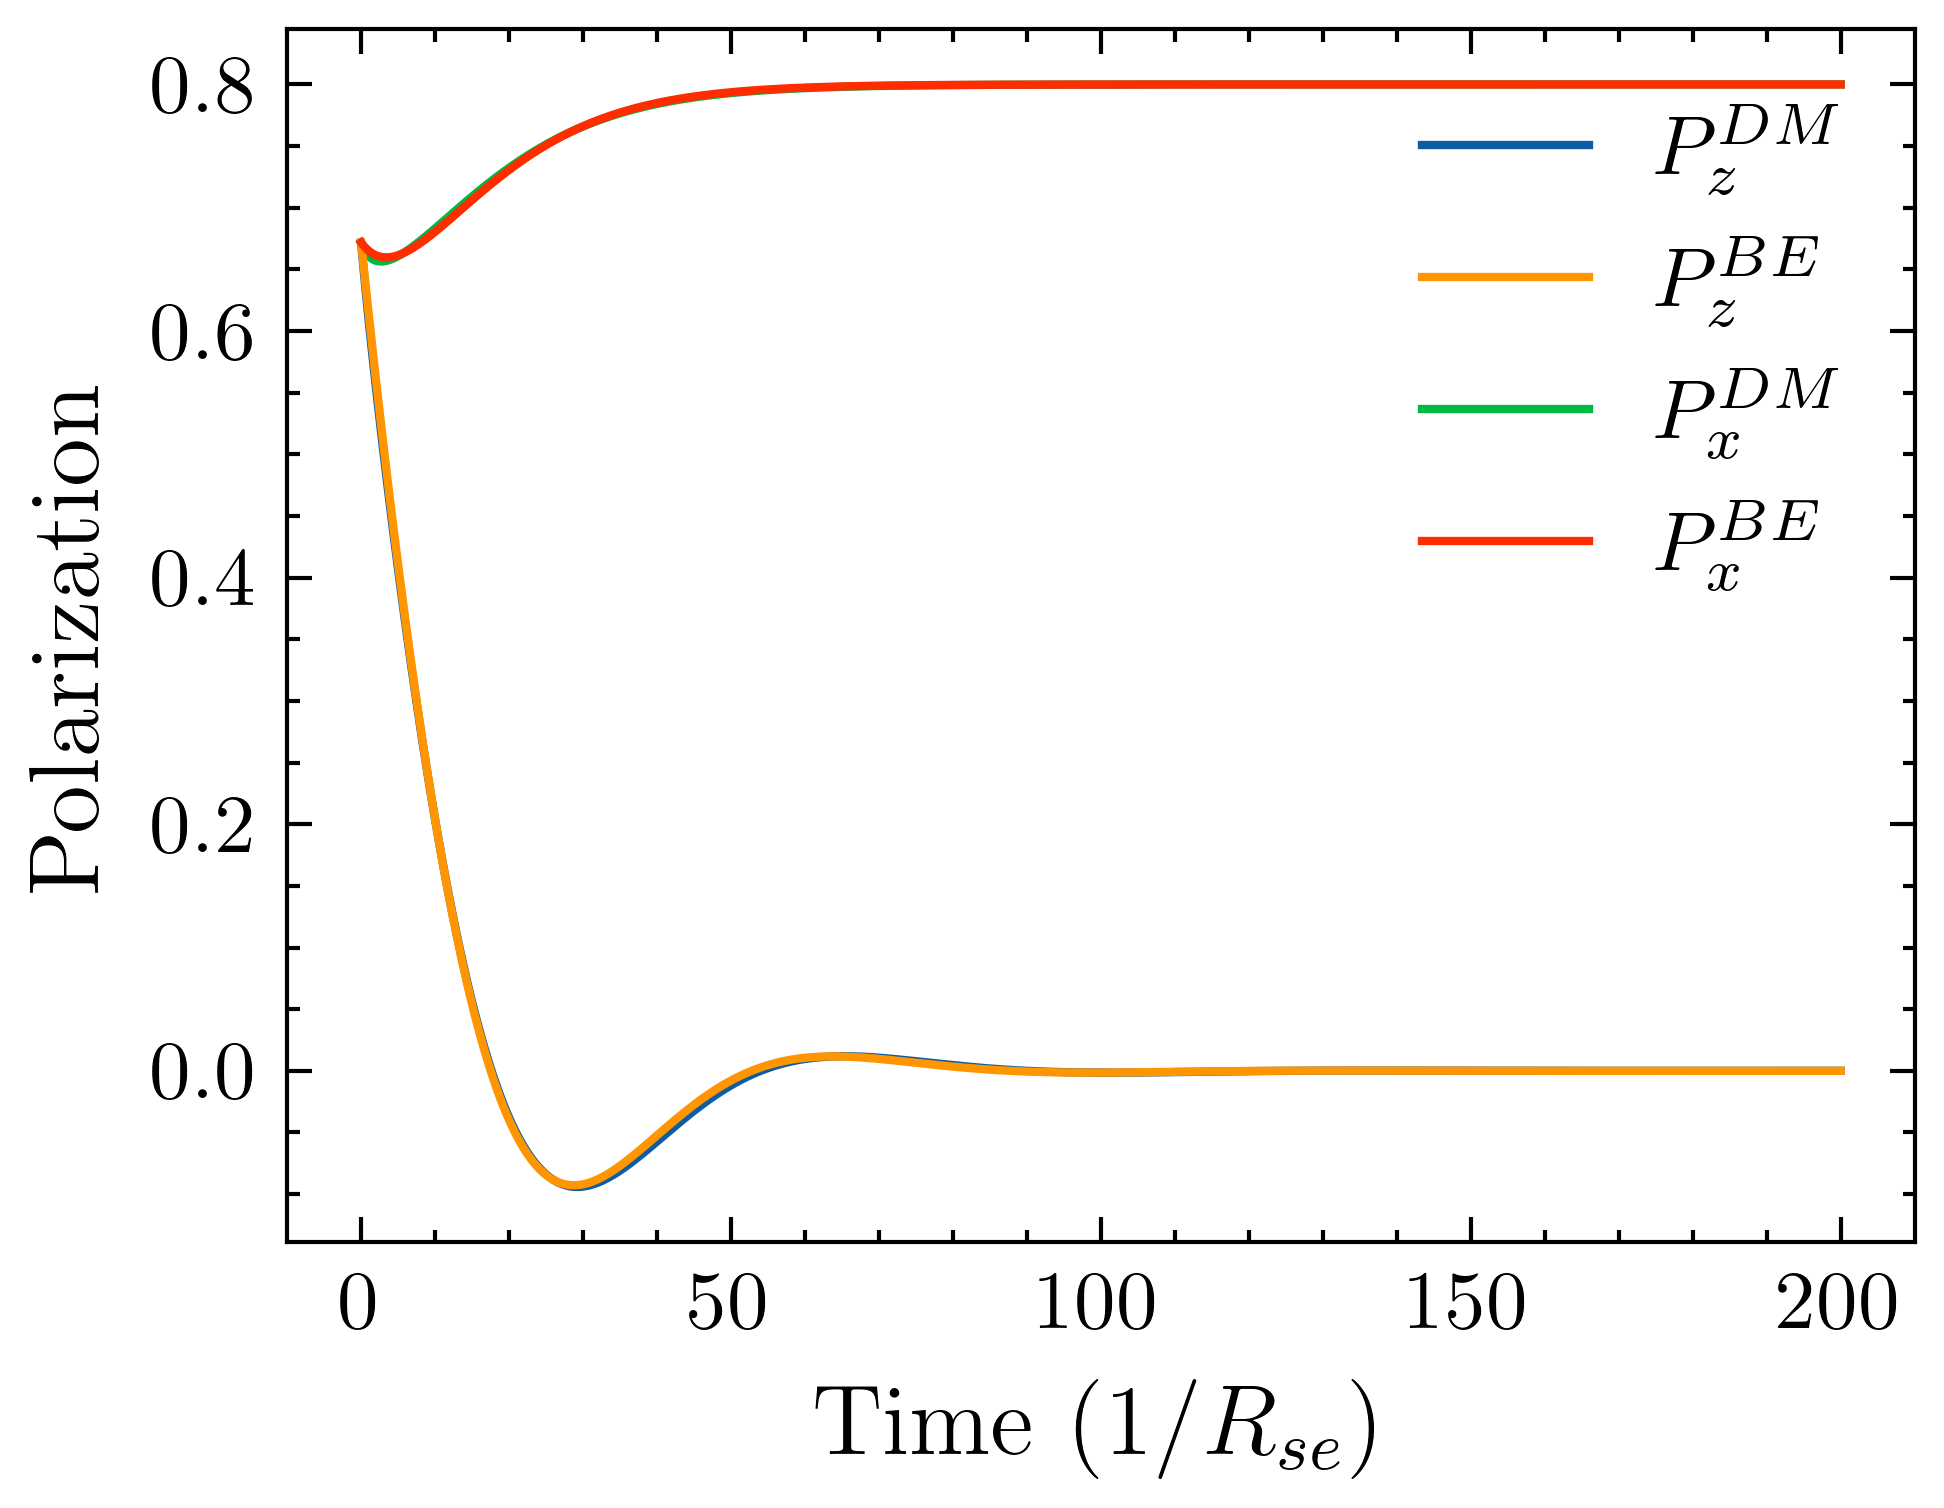
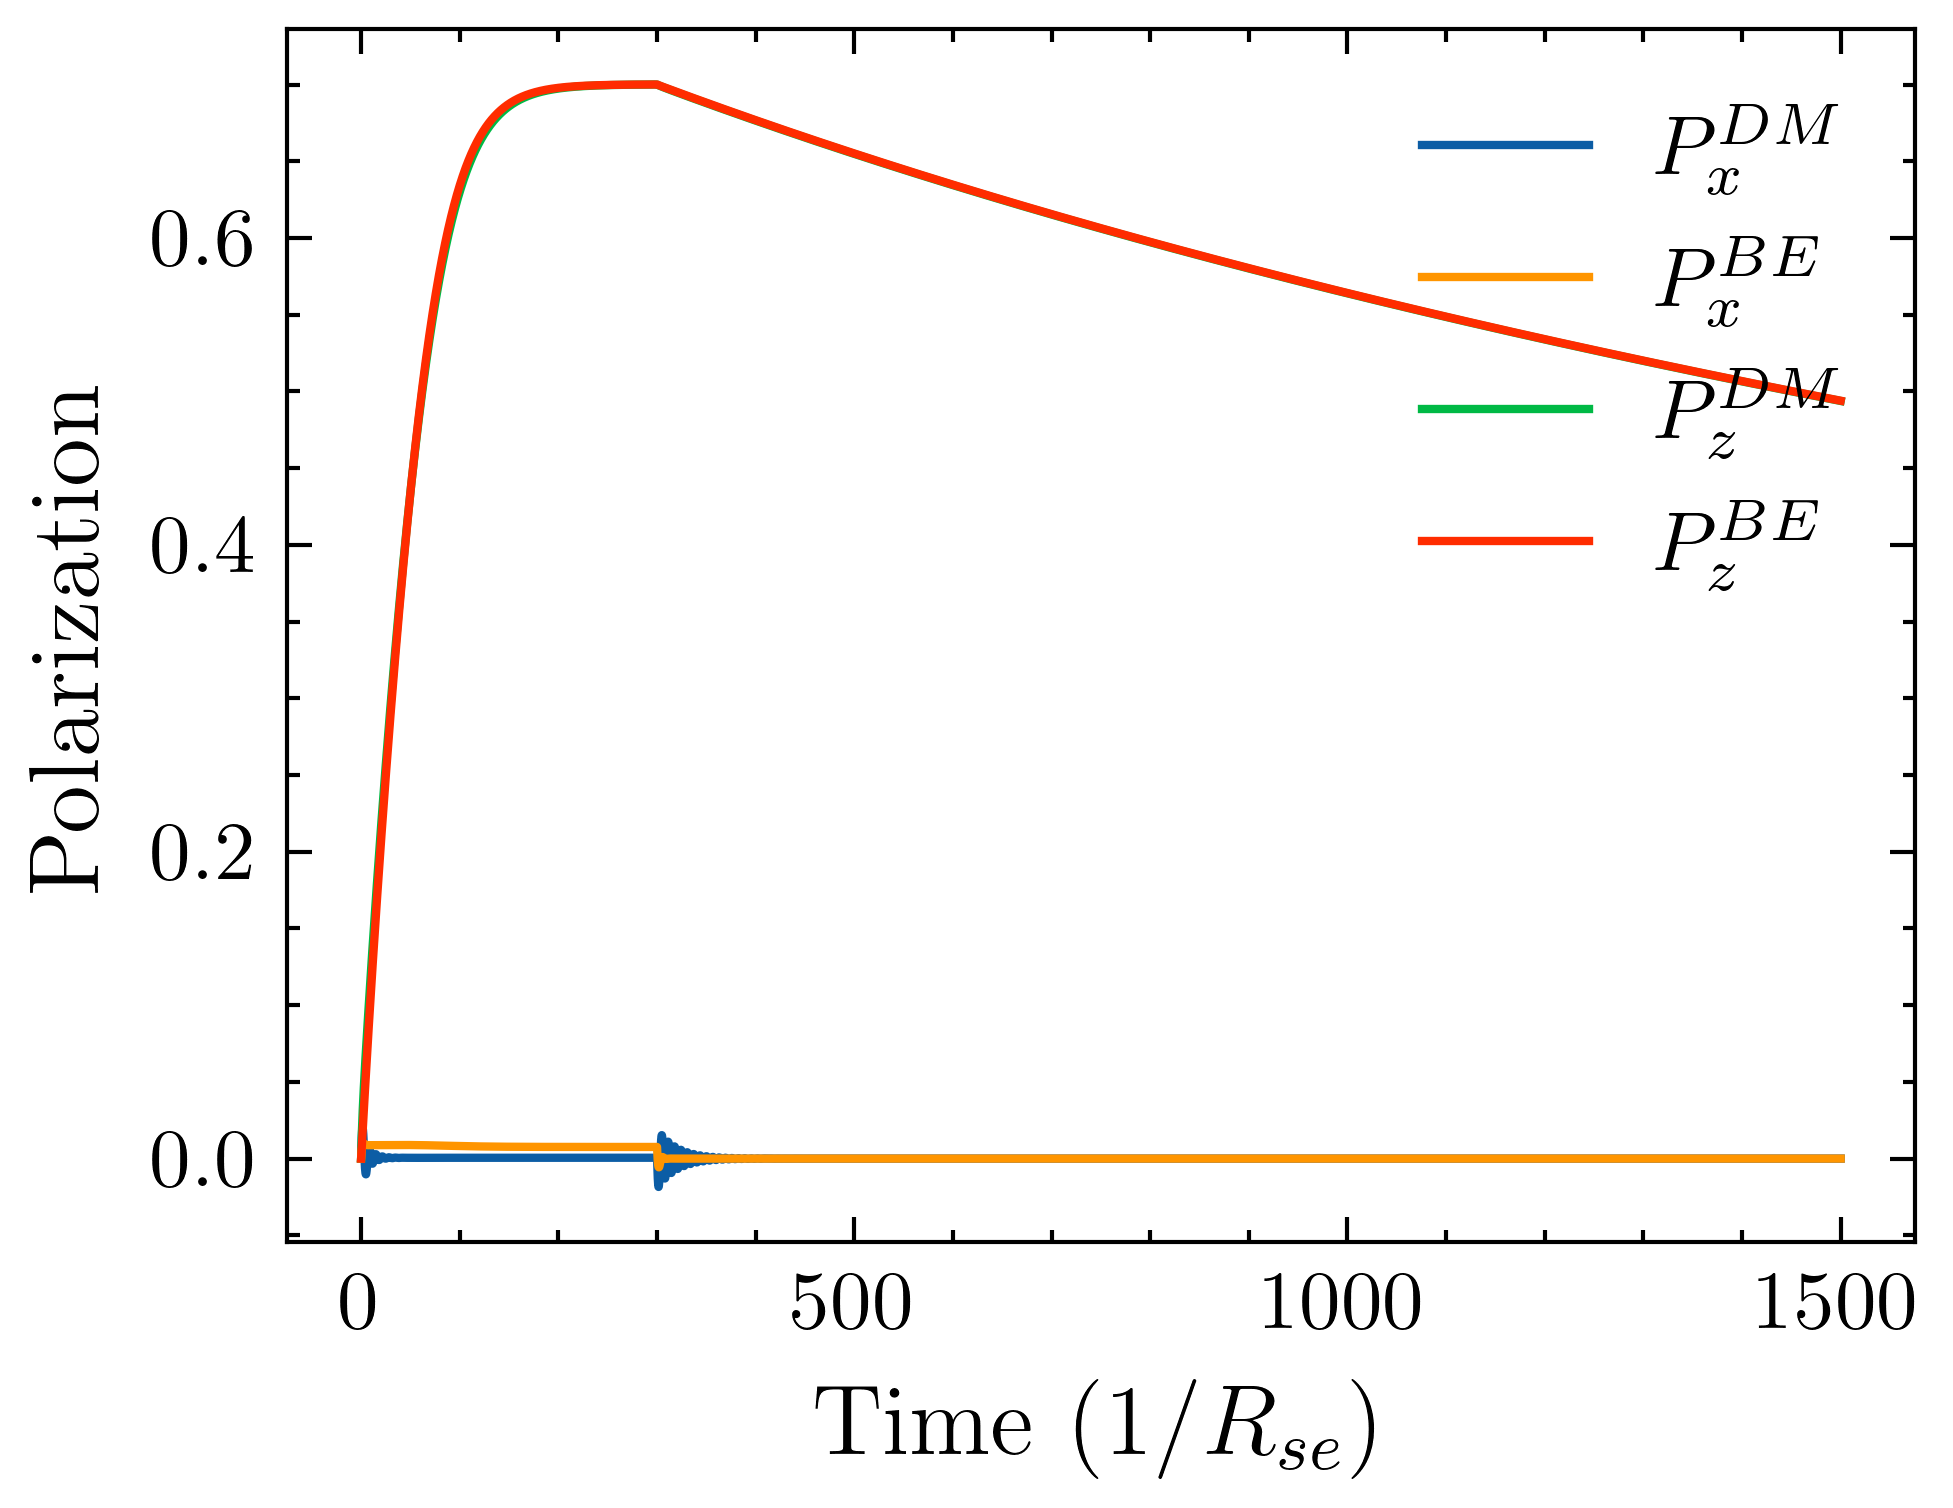
new

diff --git a/Master_equation.py b/Master_equation.py
@@ -31,11 +31,12 @@ Sz = U.T.conjugate() @ Sz @ U
 # --------------------------------Characterize interactions envolved-----------------------------------#
 Rse = 1
 omega_0 = 0.1
-Rop = 0.2
-Rsd = 0.05
-
+Rop = 0.1
+Rsd = 0.001
+sx=1/np.sqrt(2)
+sz=1/np.sqrt(2)
 # --------------------------------Define the initial state-----------------------------------#
-theta = np.pi / 4
+theta = np.pi / 2
 phi = 0
 a_theta = spin_Jx(a) * np.sin(theta) * np.cos(phi) + spin_Jy(a) * np.sin(theta) * np.sin(phi) + spin_Jz(a) * np.cos(
     theta)
@@ -48,7 +49,7 @@ q = np.hstack((qa, qb))
 Rho_ini = np.zeros(2 * (a + b + 1))
 
 # # -----------------spin temperature state-----------------#
-P = 0.95
+P = 0.000001
 beta = np.log((1 + P) / (1 - P))
 for i in np.arange(0, 2 * (a + b + 1), 1):
     Rho_ini = Rho_ini + np.exp(beta * q[i]) * v[:, [i]] * v[:, [i]].T.conjugate()
@@ -60,8 +61,8 @@ Rho_ini = Rho_ini / np.trace(Rho_ini)
 
 # --------------------------------------Evolution under hyperfine effect, etc.--------------------------------#
 Rhot = Rho_ini
-dt = 0.001
-T = 200
+dt = 0.01
+T = 1500
 t = np.arange(0, T, dt)
 hyperfine = block_diag(np.ones((2 * a + 1, 2 * a + 1)), np.ones((2 * b + 1, 2 * b + 1)))  # 一个原子
 MSx = np.zeros(round(T / dt))
@@ -73,6 +74,8 @@ q, v = np.linalg.eig(H)
 evolving_B = v @ np.diag(np.exp(-1j * q * dt)) @ np.linalg.inv(v)
 for n in np.arange(0, round(T / dt), 1):
     # -----------------Evolution-----------------#
+    if n==round(T / dt)/5:
+        Rop = 0.0
     x1 = Rhot @ Sx
     x2 = Rhot @ Sy
     x3 = Rhot @ Sz
@@ -83,7 +86,7 @@ for n in np.arange(0, round(T / dt), 1):
     mSz = np.trace(x3)
     mSS = mSx * Sx + mSy * Sy + mSz * Sz
     ER = -Rsd * AS
-    OP = Rop * (2 * alpha @ Sz - AS)
+    OP = Rop * (2 * alpha @ (sx*Sx+sz*Sz) - AS)
     Rhot = evolving_B @ Rhot @ evolving_B.T.conjugate()  # Zeeman effect
     Rhot = Rse * (alpha + 4 * alpha @ mSS - Rhot) * dt + (
             ER + OP) * dt + Rhot
@@ -95,12 +98,15 @@ for n in np.arange(0, round(T / dt), 1):
     # V[n] = Vx
 
 # ---------------------------Bloch Equation-----------------------------------
+Rop = 0.1
 transverse = np.zeros(round(T / dt))
 longitude = np.zeros(round(T / dt))
 Px = P * np.sin(theta)
 Pz = P * np.cos(theta)
 Py = 0
 for n in np.arange(0, round(T / dt), 1):
+    if n==round(T / dt)/5:
+        Rop = 0.0
     transverse[n] = Px
     longitude[n] = Pz
     qnm = 2 * (3 + P ** 2) / (1 + P ** 2)
@@ -112,12 +118,22 @@ for n in np.arange(0, round(T / dt), 1):
     # T2 = (1 - (1 - qnm / Qnm) * (1 - Pz ** 2 / P ** 2)) * Gamma
     T2 = (1 - ((qnm - Qnm) / qnm) * Pz ** 2 / P ** 2) * Gamma
 
-    Pz = Pz + (-1 / Qnm * (Rsd + Rop) * Pz + Rop * (
-            1 / Qnm * Pz ** 2 / P ** 2 + 1 / qnm * (1 - Pz ** 2 / P ** 2)) - Pz * T1) * dt
-    Px = Px + (-1 / Qnm * (Rsd + Rop) * Px + Rop * (
-            1 / Qnm - 1 / qnm) * Pz / P ** 2 * Px - 1 / qnm * omega_0 * 4 * Py - Px * T2) * dt
+    # Pz = Pz + (-1 / Qnm * (Rsd + Rop) * Pz + Rop * (
+    #         1 / Qnm * Pz ** 2 / P ** 2 + 1 / qnm * (1 - Pz ** 2 / P ** 2)) - Pz * T1) * dt
+    # Px = Px + (-1 / Qnm * (Rsd + Rop) * Px + Rop * (
+    #         1 / Qnm - 1 / qnm) * Pz / P ** 2 * Px - 1 / qnm * omega_0 * 4 * Py - Px * T2) * dt
+    # Py = Py + (-1 / Qnm * (Rsd + Rop) * Py + Rop * (
+    #         1 / Qnm - 1 / qnm) * Pz / P ** 2 * Py + 1 / qnm * omega_0 * 4 * Px - Py * T2) * dt
+    Pz = Pz + (-1 / Qnm * (Rsd + Rop) * Pz + Rop *
+               ((1 / Qnm - 1 / qnm) * (Px *sx+Pz*sz)*(Pz-Px *sx*sz-Pz*sz*sz) / P ** 2)+Rop *sz*
+               ((1 / Qnm  * (Px *sx+Pz*sz)**2/ P ** 2)+(1 / qnm  * (1-(Px *sx+Pz*sz)**2/ P ** 2)))
+               - Pz * T1) * dt
+    Px = Px + (-1 / Qnm * (Rsd + Rop) * Px +Rop *
+               ((1 / Qnm - 1 / qnm) * (Px *sx+Pz*sz)*(Px-Px *sx*sx-Pz*sz*sx) / P ** 2)+Rop *sx*
+               ((1 / Qnm  * (Px *sx+Pz*sz)**2/ P ** 2)+(1 / qnm  * (1-(Px *sx+Pz*sz)**2/ P ** 2)))
+               - 1 / qnm * omega_0 * 4 * Py - Px * T2) * dt
     Py = Py + (-1 / Qnm * (Rsd + Rop) * Py + Rop * (
-            1 / Qnm - 1 / qnm) * Pz / P ** 2 * Py + 1 / qnm * omega_0 * 4 * Px - Py * T2) * dt
+            1 / Qnm - 1 / qnm) * (Px*sx+Pz*sz) / P ** 2 * Py + 1 / qnm * omega_0 * 4 * Px - Py * T2) * dt
     P = np.sqrt(Px ** 2 + Py ** 2 + Pz ** 2)
 
 plt.style.use(['science'])
@@ -131,9 +147,9 @@ with plt.style.context(['science']):
     # plt.ylim(0, 18)
     plt.xticks(fontsize=10)
     plt.yticks(fontsize=10)
-    plt.legend([p1, p3, p2, p4], ["$P_z^{DM}$", "$P_z^{BE}$", "$P_x^{DM}$", "$P_x^{BE}$"], loc='upper right',
+    plt.legend([p1, p3, p2, p4], ["$P_x^{\mathrm{DM}}$", "$P_x^{\mathrm{NB}}$", "$P_z^{\mathrm{DM}}$", "$P_z^{\mathrm{NB}}$"], loc='upper right',
                prop={'size': 10})
 
     plt.xlabel('Time $(1/R_{se})$', fontsize=12)
     plt.ylabel('Polarization', fontsize=12)
-    plt.savefig('Evolution.png', dpi=600)
+    plt.savefig('Evolution2.png', dpi=600)

diff --git a/Noise spectrum.py b/Noise spectrum.py
@@ -7,10 +7,13 @@ import numpy as np
 import matplotlib.pyplot as plt
 import scienceplots
 
-omega = np.arange(-50, 50, 0.1)
-gammap = 10
-gamman = 500
-Omega = 10
+omega = np.arange(-120, 120, 0.1)
+q=5.2
+Omega = 100/q*4
+gammap = 10/q
+gamman = 10000*(2/3+4/3/16-4*0.25/4/1.25)
+
+
 Fz = 0.9192388155425111
 Fx2 = 1.862499999999999
 Lorentzianpp = gammap / (gammap + (omega - Omega) ** 2)
@@ -21,26 +24,18 @@ Lorentziannn = gamman / (gamman + (omega + Omega) ** 2)
 plt.style.use(['science'])
 with plt.style.context(['science']):
     fig1 = plt.figure()
-    ax1 = fig1.add_subplot(1, 1, 1)
-    p1, = plt.plot(omega, Fx2*(Lorentzianpp + Lorentzianpn), color='brown')
-    ax1.set_title("Symmetric part", fontsize=8)
-    ax1.set_xlabel('Frequency(Hz)', fontsize=10)
-    ax1.set_ylabel(' PSD($n^2 l^2 \chi_a^2$)', fontsize=10)
-    plt.savefig('Noise spectrum1.png', dpi=600)
+    p1, = plt.plot(omega, Fx2*(Lorentzianpp + Lorentzianpn))
+    p2, = plt.plot(omega, Fz/2*(Lorentzianpp - Lorentzianpn))
+    p3, = plt.plot(omega, Fx2*(Lorentzianpp + Lorentzianpn)+Fz/2*(Lorentzianpp - Lorentzianpn))
 
-    fig2 = plt.figure()
-    ax2 = fig2.add_subplot(1, 1, 1)
-    p2, = plt.plot(omega, Fz/2*(Lorentzianpp - Lorentzianpn), color='olive')
-    ax2.set_xlabel('Frequency(Hz)', fontsize=10)
-    # ax2.set_ylabel('PSD($n^2 l^2 \chi_a^2$)', fontsize=10)
-    ax2.set_title("Antisymmetric part", fontsize=8)
-    plt.savefig('Noise spectrum2.png', dpi=600)
 
-    fig3 = plt.figure()
-    ax3 = fig3.add_subplot(1, 1, 1)
-    p4, = plt.plot(omega, Fx2*(Lorentzianpp + Lorentzianpn)+Fz/2*(Lorentzianpp - Lorentzianpn), color='purple')
-    ax3.set_xlabel('Frequency(Hz)', fontsize=10)
-    # ax3.set_ylabel('PSD($n^2 l^2 \chi_a^2$)', fontsize=10)
-    ax3.set_title("Total spectrum", fontsize=8)
-    plt.savefig('Noise spectrum3.png', dpi=600)
+    plt.legend([p1, p2, p3], ["Symmetric part", "Antisymmetric part", "Total"], loc='upper left',
+               prop={'size': 10})
+    plt.xlabel('Frequency(Hz)', fontsize=12)
+    plt.ylabel(' PSD($n^2 l^2 \chi_a^2$)', fontsize=12)
+    plt.ylim([-0.5,4])
+
+
+    plt.savefig('Noise spectrum.png', dpi=600)
+
 
